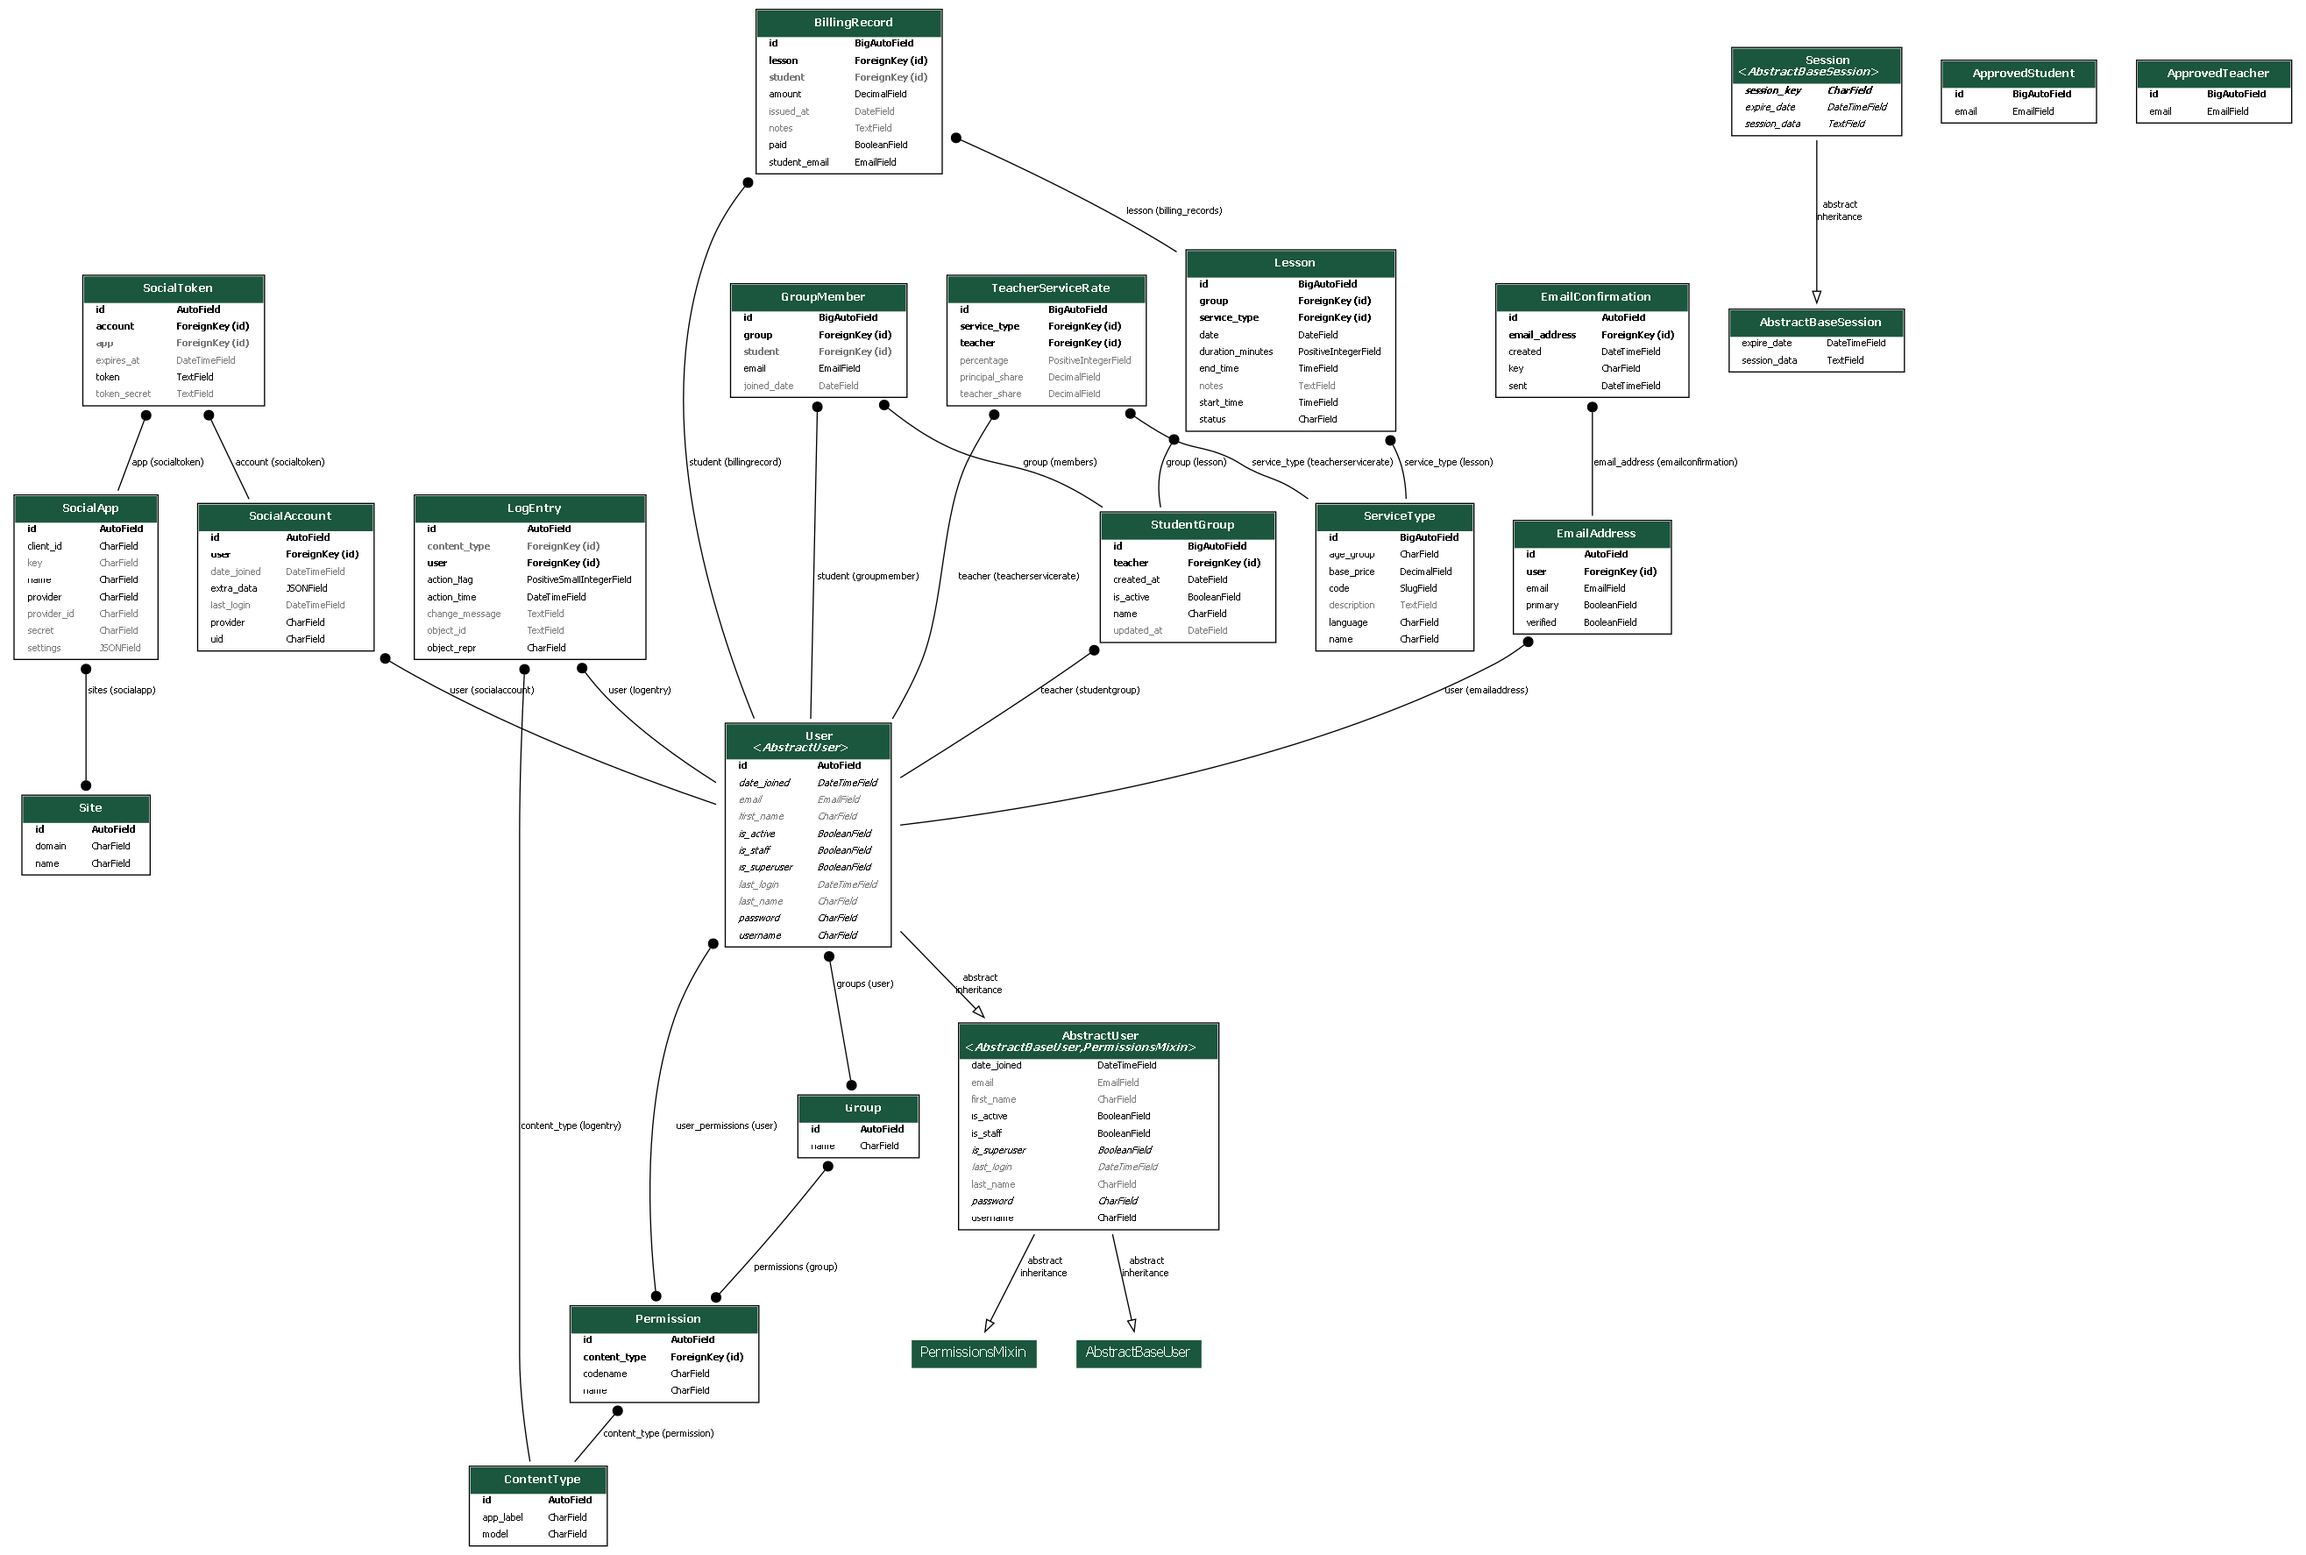
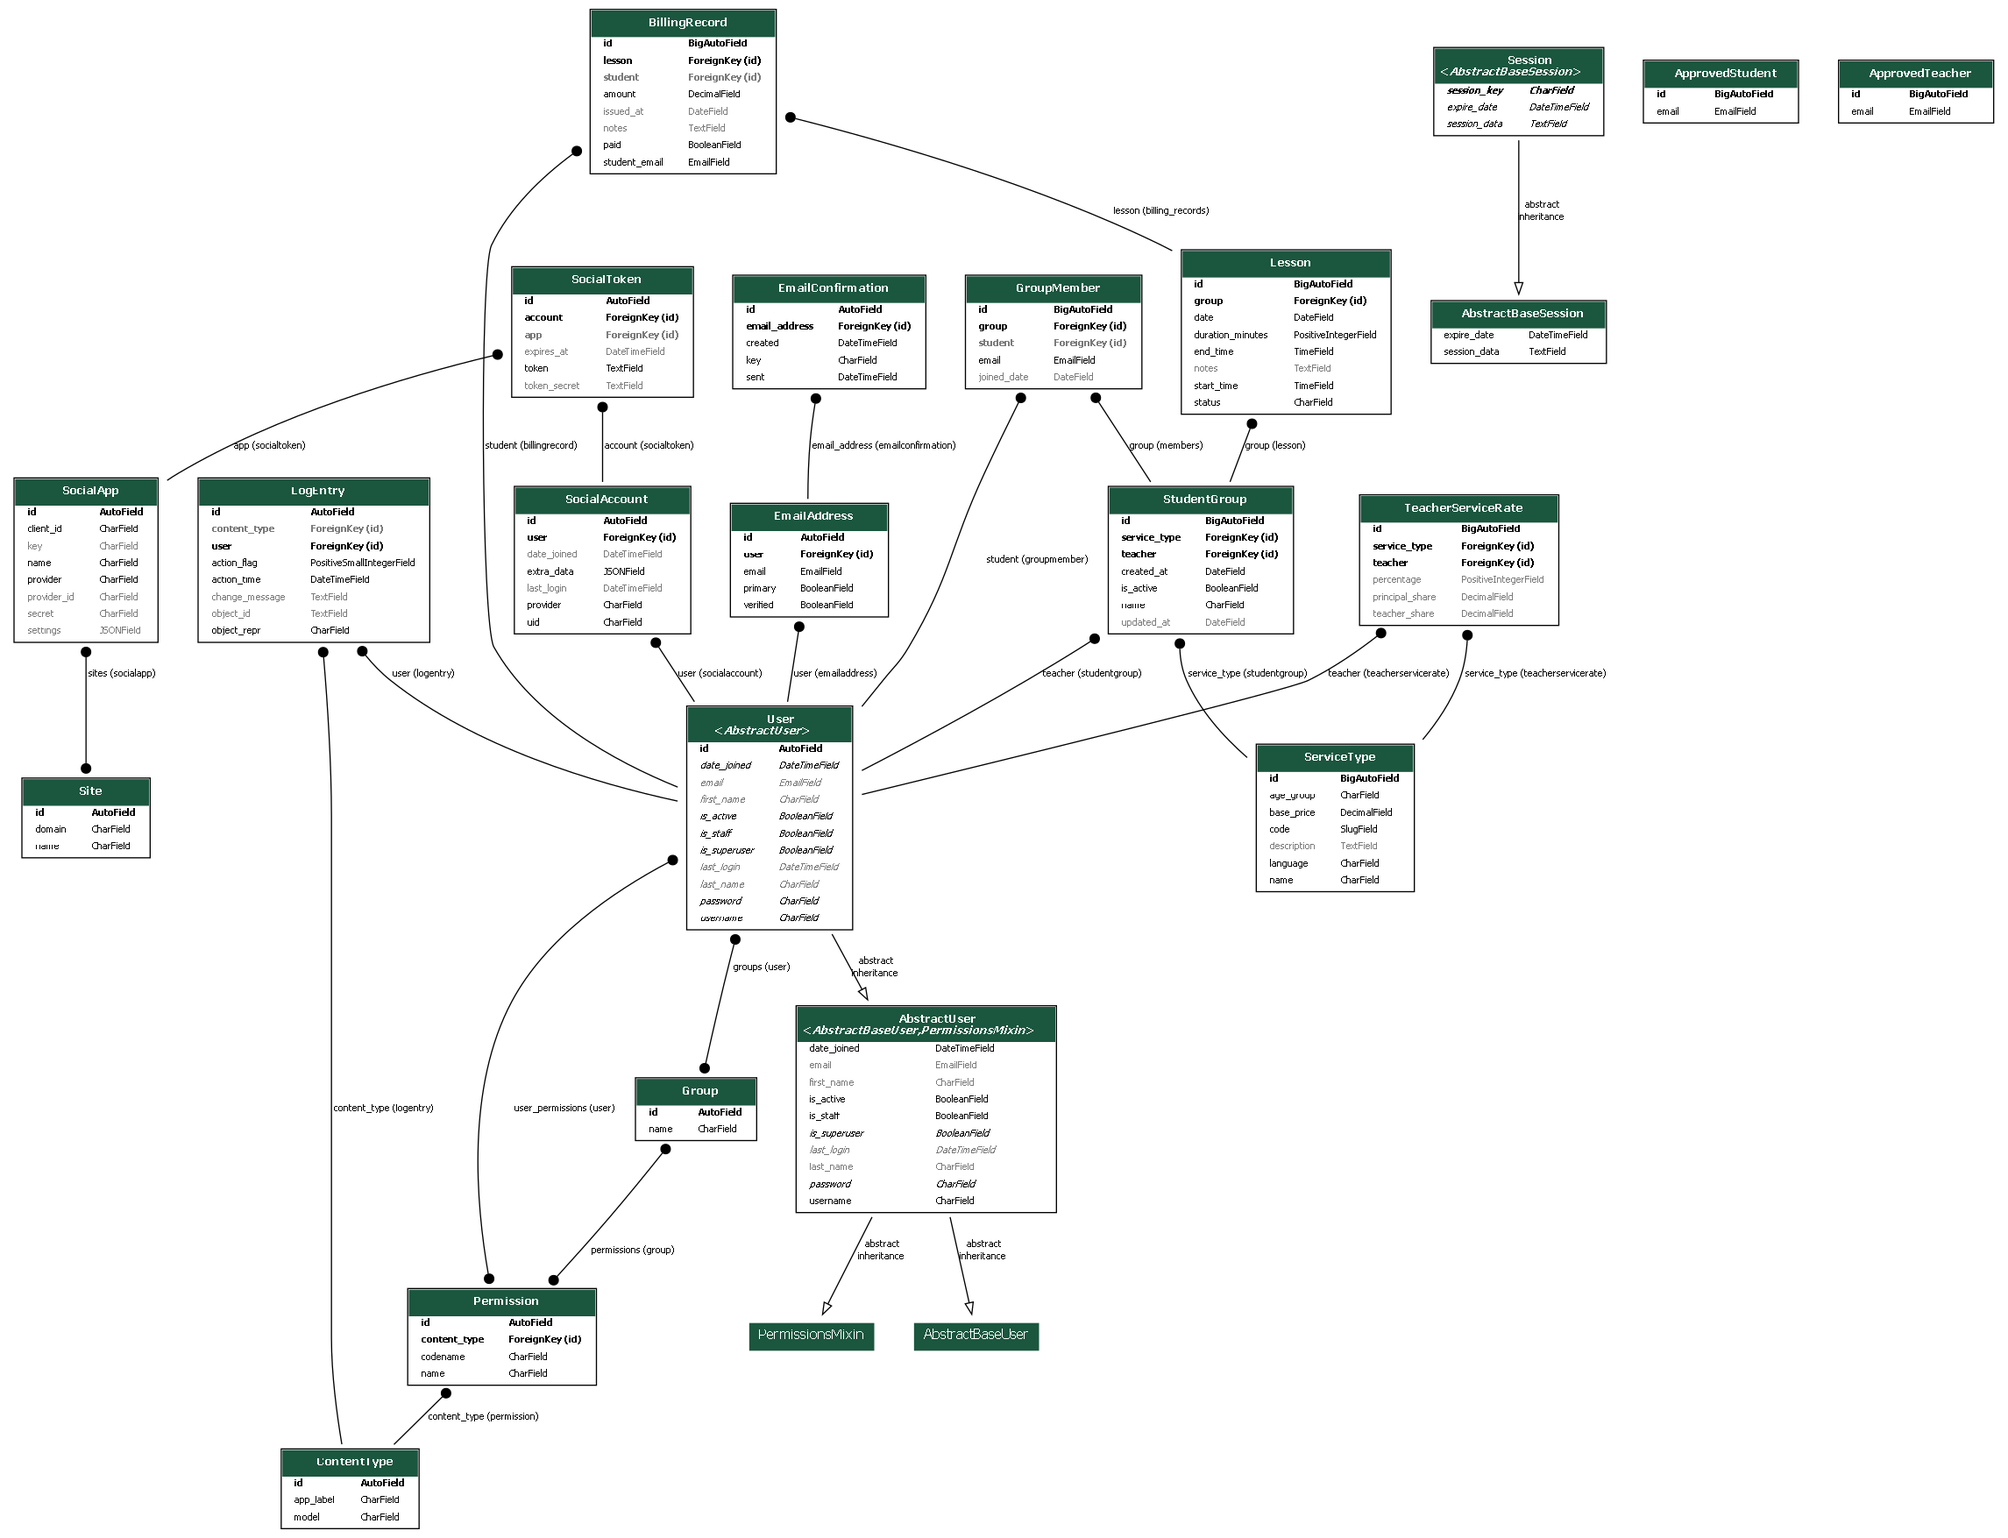
Model Relation changed
now to get the service type in the lesson you will have to use lesson.group.service_type.<wanted param/field> removing multiple FKs within the Lesson model, it wouldn't need to have service_type checked very often in the lesson itself as it's mostly going to be used in schedule and status tracking, pricing is still within the service type depending on the quantity of successful lessons and logic

diff --git a/src/groups/models.py b/src/groups/models.py
@@ -1,29 +1,36 @@
 from django.db import models
 from django.contrib.auth.models import User
+from services.models import ServiceType
 
-class StudentGroup(models.Model): # Works as general Lesson Group
+
+class StudentGroup(models.Model):  # Works as general Lesson Group
     name = models.CharField(max_length=100)
     teacher = models.ForeignKey(
         User,
         on_delete=models.CASCADE,
         limit_choices_to={"groups__name__in": ["teacher", "principal"]},
     )
+    service_type = models.ForeignKey(ServiceType, on_delete=models.PROTECT)
     created_at = models.DateField()
     updated_at = models.DateField(auto_now=True)
     is_active = models.BooleanField(default=True)
-    
-
 
     class Meta:
         unique_together = ("name", "teacher")
-    
+
+    def clean(self):
+        super().clean()
+        # TODO: Add validation of the teachr and name checked agains google calendar
+        # params, that are: creator.email = teacher.email, summary = name
 
     def __str__(self):
-        return f"{self.name}"
-    
-    
+        return f"{self.name} - {self.teacher.first_name} {self.teacher.last_name} ({self.teacher.email})"
+
+
 class GroupMember(models.Model):
-    group = models.ForeignKey(StudentGroup, on_delete=models.CASCADE, related_name='members')
+    group = models.ForeignKey(
+        StudentGroup, on_delete=models.CASCADE, related_name="members"
+    )
     student = models.ForeignKey(
         User,
         on_delete=models.CASCADE,
@@ -31,26 +38,19 @@ class GroupMember(models.Model):
         null=True,
         blank=True,
     )
-    email = models.EmailField(null=False, blank=False, unique=True) # This field is required
+    email = models.EmailField(null=False, blank=False, unique=True)
     joined_date = models.DateField(auto_now_add=True)
-
 
     def save(self, *args, **kwargs):
         if not self.student and self.email:
-            # If student is not provided, try to find by email
             try:
                 self.student = User.objects.get(email=self.email)
             except User.DoesNotExist:
                 self.student = None
         elif self.student and not self.email:
-            # If student is provided, ensure email is set
             self.email = self.student.email
-            
-        
-        super().save(*args, **kwargs)
 
+        super().save(*args, **kwargs)
 
     def __str__(self):
         return f"{self.email} in {self.group.name}"
-    
-    

diff --git a/src/lessons/models.py b/src/lessons/models.py
@@ -4,9 +4,9 @@ from datetime import datetime
 from groups.models import StudentGroup
 from services.models import ServiceType
 
+
 class Lesson(models.Model):
     group = models.ForeignKey(StudentGroup, on_delete=models.CASCADE)
-    service_type = models.ForeignKey(ServiceType, on_delete=models.PROTECT)
     date = models.DateField()
     start_time = models.TimeField()
     end_time = models.TimeField()
@@ -14,16 +14,16 @@ class Lesson(models.Model):
     status = models.CharField(
         max_length=20,
         choices=[
-            ('scheduled', 'Scheduled'),
-            ('completed', 'Completed'),
-            ('cancelled', 'Cancelled'),
+            ("scheduled", "Scheduled"),
+            ("completed", "Completed"),
+            ("cancelled", "Cancelled"),
         ],
-        default='scheduled'
+        default="scheduled",
     )
     notes = models.TextField(blank=True)
 
     class Meta:
-        unique_together = ('group', 'date')
+        unique_together = ("group", "date")
 
     def __str__(self):
         return f"Lesson for {self.group.name} on {self.date}"

diff --git a/src/services/models.py b/src/services/models.py
@@ -58,6 +58,10 @@ class TeacherServiceRate(models.Model):
                 'teacher_share': f"Teacher share cannot exceed base price ({self.service_type.base_price})."
             })
 
+
+    # TODO: If someone manually sets teacher_share, then .save()
+    # will still recompute based on percentage (even if it’s no longer intended).
+    # This overwrites user input silently.
     def calculate_payouts(self):
         if self.percentage is not None:
             self.teacher_share = (self.service_type.base_price * self.percentage) / 100

diff --git a/src/billing/models.py b/src/billing/models.py
@@ -38,6 +38,9 @@ class BillingRecord(models.Model):
         if not member_exists:
             raise ValidationError(f"{self.student_email} is not in the group '{group.name}'.")
 
+
+    # TODO: CHANGE THIS To a seperate form/service not to get null problems
+    # NOTE: THIS IS BAD Practice
     def save(self, *args, **kwargs):
         # Always get current price from the lesson's service type
         if not self.amount:
